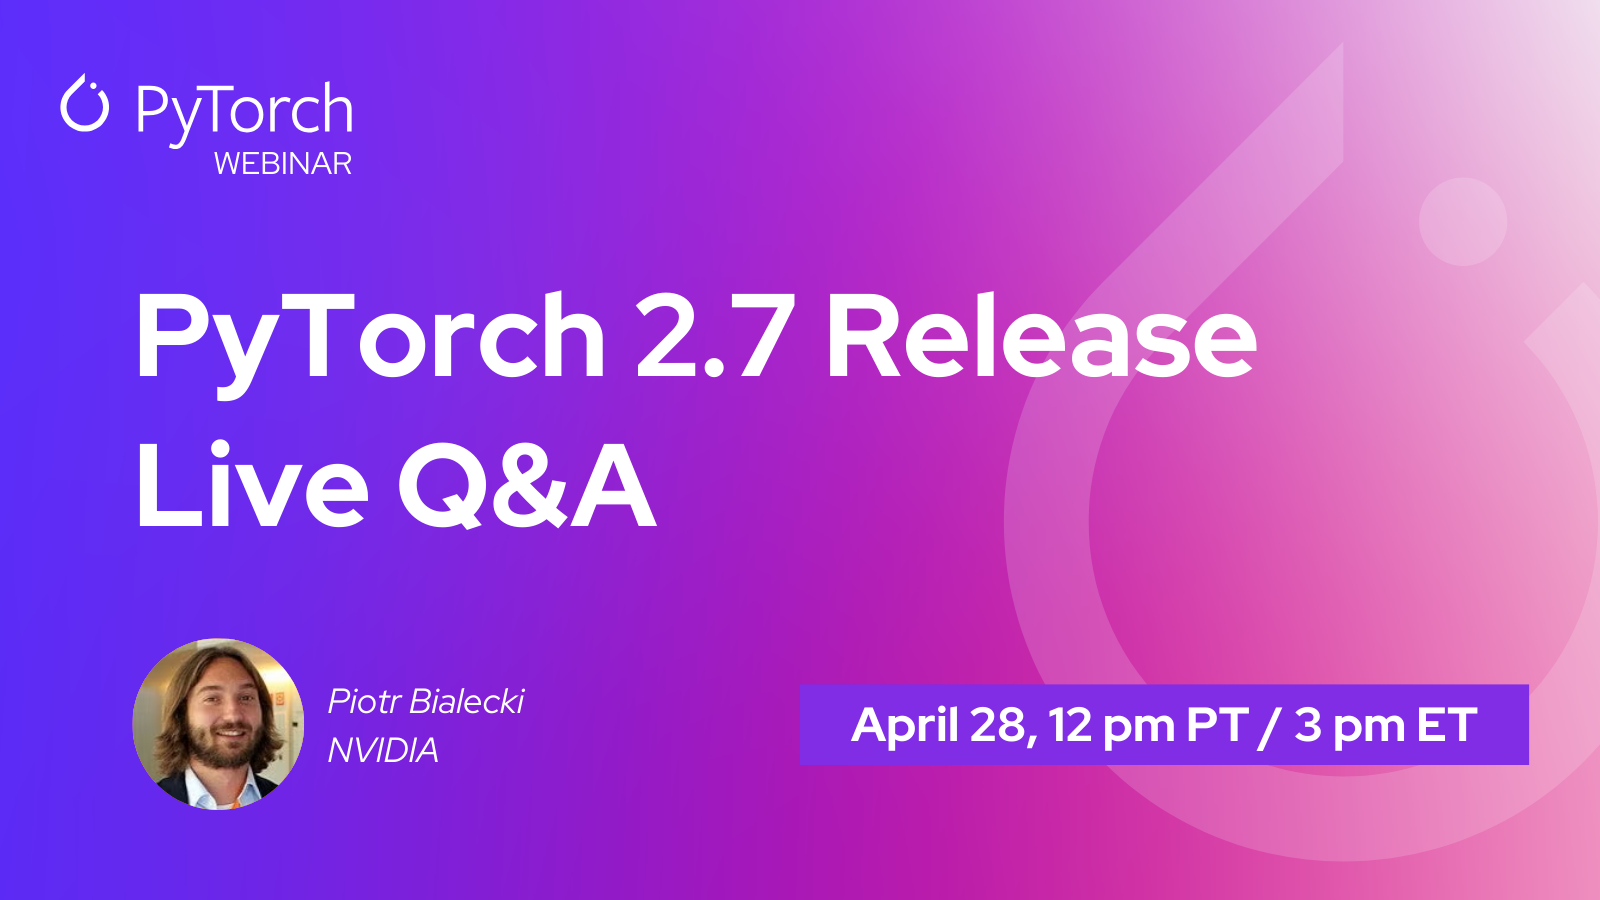
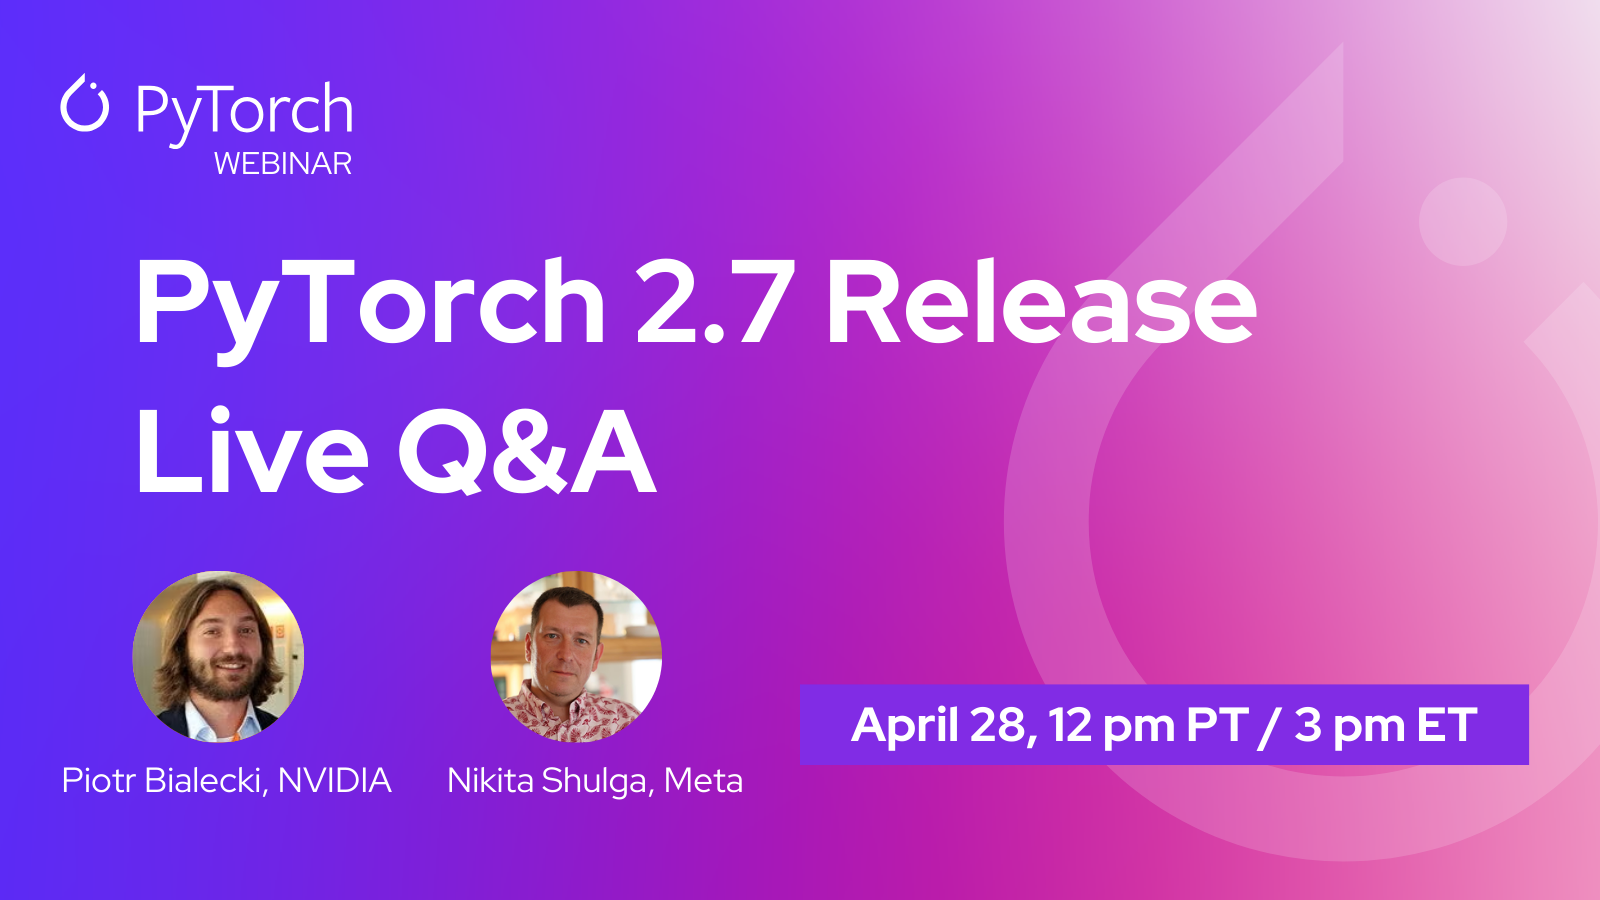
Update webinar copy

Changed region(s): [[0.0625, 0.28, 0.7812, 0.5911], [0.0312, 0.6222, 0.4688, 0.9022]]

diff --git a/pt-27-release-qa.html b/pt-27-release-qa.html
@@ -23,14 +23,19 @@ permalink: /pt-27-release-qa
         <p class="lead">
           <strong>Date</strong>: April 28, 12 pm PT
           <br/>
-          <strong>Speaker</strong>: Piotr Bialecki
+          <strong>Speakers</strong>: Piotr Bialecki (NVIDIA) and Nikita Shulga (Meta)
           <br/>
           <br/>
-          Wondering what's new in the PyTorch 2.7 release? Do you have questions? Join us for a live Q&A on PyTorch 2.7 with Piotr Bialecki, PyTorch Core Maintainer and Director of Engineering at NVIDIA. 
+          Have questions about PyTorch 2.7? Join PyTorch Core Maintainers Piotr Bialecki (NVIDIA) and Nikita Shulga (Meta) for a live Q&A session on Monday, April 28 at 12 PM PST.
           <br/><br/>
-          Piotr joined the PyTorch team at NVIDIA in 2019 and currently manages the team. He drives NVIDIA’s effort in maintaining and advancing PyTorch’s CUDA backend and received the PyTorch SUPERHERO award in 2023 for his community contributions, especially in the PyTorch discussion board. As a Core Maintainer, he is also focused on PyTorch’s long-term vision and development.
-          <br/><br/>
-          Bring your PyTorch 2.7 questions for Piotr during this live Q&A session.
+
+Piotr joined the PyTorch team at NVIDIA in 2019 and currently manages the team. He drives NVIDIA’s effort in maintaining and advancing PyTorch’s CUDA backend and received the PyTorch SUPERHERO award in 2023 for his community contributions, especially in the PyTorch discussion board. As a Core Maintainer, he is also focused on PyTorch’s long-term vision and development.
+<br/><br/>
+
+Nikita is a Software Engineer at Meta where, among other things, he is responsible for PyTorch releases and continuous integration. Nikita is committed to uplifting the developer community and continuously improving PyTorch. He earned a Master’s degree in Applied Mathematics from the Moscow Institute of Physics and Technology (MIPT).
+<br/><br/>
+
+Bring your PyTorch 2.7 questions for Piotr & Nikita during this live Q&A session.
           <br/><br/>
           <strong>Register now to attend this event.</strong>
           <div style="width:100%;position:relative;padding-bottom:56.25%;min-height:550px;"><iframe src="https://streamyard.com/watch/wiQCFNZEauK4?embed=true"  width="100%" height="100%" frameborder="0" allow="autoplay; fullscreen" style="width:100%;height:100%;position:absolute;left:0px;top:0px;overflow:hidden;"></iframe></div>

diff --git a/_events/pt-27-release-qa.md b/_events/pt-27-release-qa.md
@@ -10,14 +10,16 @@ poster: assets/images/pt27qa.png
 </a>
 
 **Date**: April 28, 12 pm PT  
-**Speaker**: Piotr Bialecki  
+**Speakers**: Piotr Bialecki (NVIDIA) and Nikita Shulga (Meta)
 **Location**: Online
 
-Wondering what's new in the PyTorch 2.7 release? Do you have questions? Join us for a live Q&A on PyTorch 2.7 with Piotr Bialecki, PyTorch Core Maintainer and Director of Engineering at NVIDIA. 
+Have questions about PyTorch 2.7? Join PyTorch Core Maintainers Piotr Bialecki (NVIDIA) and Nikita Shulga (Meta) for a live Q&A session on Monday, April 28 at 12 PM PST.
 
 Piotr joined the PyTorch team at NVIDIA in 2019 and currently manages the team. He drives NVIDIA’s effort in maintaining and advancing PyTorch’s CUDA backend and received the PyTorch SUPERHERO award in 2023 for his community contributions, especially in the PyTorch discussion board. As a Core Maintainer, he is also focused on PyTorch’s long-term vision and development.
 
-Bring your PyTorch 2.7 questions for Piotr during this live Q&A session.
+Nikita is a Software Engineer at Meta where, among other things, he is responsible for PyTorch releases and continuous integration. Nikita is committed to uplifting the developer community and continuously improving PyTorch. He earned a Master’s degree in Applied Mathematics from the Moscow Institute of Physics and Technology (MIPT).
+
+Bring your PyTorch 2.7 questions for Piotr & Nikita during this live Q&A session.
 
 [Register now](/pt-27-release-qa)
 
